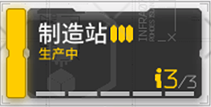
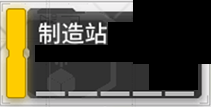
feat.完成基建设施的识别
Former-commit-id: 5fdbb6a49ae86581b2b10afc7bb355873625d05c

diff --git a/src/MeoAssistance/InfrastFacilityImageAnalyzer.cpp b/src/MeoAssistance/InfrastFacilityImageAnalyzer.cpp
@@ -1,0 +1,86 @@
+#include "InfrastFacilityImageAnalyzer.h"
+
+#include "Resource.h"
+#include "MultiMatchImageAnalyzer.h"
+#include "AsstUtils.hpp"
+
+bool asst::InfrastFacilityImageAnalyzer::analyze()
+{
+    const static std::unordered_map<std::string, std::string>
+        facility_task_name = {
+            { "Dorm", "InfrastDorm" },
+            { "ControlCenter", "InfrastControlCenter" },
+            { "Mfg", "InfrastMfg" },
+            { "Trade", "InfrastTrade" },
+            { "Power", "InfrastPower" },
+            { "Office", "InfrastOffice" },
+            { "Reception", "InfrastReception" }
+    };
+    // 因为基建的缩放是不确定的，有可能是正常大小，也可能是最小化的
+    // 所以对每种情况都进行一下识别，取其中得分最高的
+    const static std::vector<std::string> task_name_suffix = { "", "Mini" };
+
+    MultiMatchImageAnalyzer mm_analyzer(m_image);
+
+    auto task_analyze = [&](const std::string& task_name) -> bool {
+        const auto task_ptr = std::dynamic_pointer_cast<MatchTaskInfo>(
+            resource.task().task_ptr(task_name));
+        mm_analyzer.set_templ_name(task_ptr->templ_name);
+        mm_analyzer.set_threshold(task_ptr->templ_threshold);
+        mm_analyzer.set_mask_range(task_ptr->mask_range);
+
+        return mm_analyzer.analyze();
+    };
+
+    int cor_suffix_index = -1;
+
+    for (const auto& [key, task_name] : facility_task_name) {
+        std::vector<MatchRect> cur_facility_result;
+        // 已知基建缩放状态的时候，只识别这个缩放状态下的就行了
+        // 否则识别所有状态，直到找出正确的当前缩放状态
+        if (cor_suffix_index >= 0) {
+            if (!task_analyze(task_name + task_name_suffix.at(cor_suffix_index))) {
+                continue;
+            }
+            mm_analyzer.sort_result();
+            cur_facility_result = mm_analyzer.get_result();
+        }
+        else {
+            double max_score = 0;
+            for (size_t i = 0; i != task_name_suffix.size(); ++i) {
+                if (!task_analyze(task_name + task_name_suffix.at(i))) {
+                    continue;
+                }
+
+                const auto& cur_res = mm_analyzer.get_result();
+                auto cur_max_iter = std::max_element(cur_res.cbegin(), cur_res.cend(),
+                    [](const MatchRect& lhs, const MatchRect& rhs) -> bool {
+                        return lhs.score < rhs.score;
+                    });
+                if (cur_max_iter == cur_res.cend()) {
+                    continue;
+                }
+                if (double cur_score = cur_max_iter->score;
+                    max_score < cur_score) {
+                    mm_analyzer.sort_result();
+                    max_score = cur_score;
+                    cur_facility_result = cur_res;
+                    cor_suffix_index = i;
+                }
+            }
+        }
+#ifdef LOG_TRACE
+        cv::RNG rng(time(0));
+        cv::Scalar rand_color(rng.uniform(0, 255), rng.uniform(0, 255), rng.uniform(0, 255));
+        int index = 0;
+        for (const MatchRect& mr : cur_facility_result) {
+            cv::rectangle(m_image_draw, utils::make_rect<cv::Rect>(mr.rect), rand_color, 2);
+            cv::Point text_point(mr.rect.x + 2, mr.rect.y + mr.rect.height / 2);
+            cv::putText(m_image_draw, task_name + std::to_string(index++), text_point, 1, 1, cv::Scalar(0, 0, 255), 1);
+        }
+#endif
+        m_result.emplace(key, std::move(cur_facility_result));
+    }
+
+    return true;
+}

diff --git a/src/MeoAssistance/InfrastFacilityImageAnalyzer.h b/src/MeoAssistance/InfrastFacilityImageAnalyzer.h
@@ -1,0 +1,26 @@
+#pragma once
+#include "AbstractImageAnalyzer.h"
+
+namespace asst {
+    class InfrastFacilityImageAnalyzer final : public AbstractImageAnalyzer
+    {
+    public:
+        using AbstractImageAnalyzer::AbstractImageAnalyzer;
+        virtual ~InfrastFacilityImageAnalyzer() = default;
+        InfrastFacilityImageAnalyzer(const cv::Mat& image, const Rect& roi) = delete;
+
+        virtual bool analyze() override;
+
+    private:
+        // 该分析器不支持外部设置ROI
+        virtual void set_roi(const Rect& roi) noexcept override {
+            AbstractImageAnalyzer::set_roi(roi);
+        }
+        virtual void set_image(const cv::Mat& image, const Rect& roi) {
+            AbstractImageAnalyzer::set_image(image, roi);
+        }
+
+        // key：设施名，value：所有这种设施的当前Rect（例如所有制造站的位置）
+        std::unordered_map<std::string, std::vector<MatchRect>> m_result;
+    };
+}

diff --git a/src/MeoAssistance/Assistance.cpp b/src/MeoAssistance/Assistance.cpp
@@ -17,6 +17,7 @@
 #include "CreditShoppingTask.h"
 #include "InfrastShiftTask.h"
 #include "InfrastDormTask.h"
+#include "InfrastEnterFacilityTask.h"
 
 using namespace asst;
 
@@ -242,7 +243,7 @@ bool Assistance::start_debug_task()
     //}
     {
         constexpr static const char* DebugTaskChain = "Debug";
-        auto shift_task_ptr = std::make_shared<InfrastDormTask>(task_callback, (void*)this);
+        auto shift_task_ptr = std::make_shared<InfrastEnterFacilityTask>(task_callback, (void*)this);
         //shift_task_ptr->set_facility("Mfg");
         //shift_task_ptr->set_product("CombatRecord");
         shift_task_ptr->set_task_chain(DebugTaskChain);

diff --git a/src/MeoAssistance/InfrastEnterFacilityTask.h b/src/MeoAssistance/InfrastEnterFacilityTask.h
@@ -1,0 +1,18 @@
+#pragma once
+#include "AbstractTask.h"
+
+namespace asst {
+    class InfrastEnterFacilityTask : public AbstractTask
+    {
+    public:
+        using AbstractTask::AbstractTask;
+        virtual ~InfrastEnterFacilityTask() = default;
+        virtual bool run() override;
+
+        void set_enter_order(std::vector<std::string> enter_order) noexcept {
+            m_enter_order = std::move(enter_order);
+        }
+    private:
+        std::vector<std::string> m_enter_order;
+    };
+}

diff --git a/src/MeoAssistance/InfrastEnterFacilityTask.cpp b/src/MeoAssistance/InfrastEnterFacilityTask.cpp
@@ -1,0 +1,15 @@
+#include "InfrastEnterFacilityTask.h"
+
+#include "InfrastFacilityImageAnalyzer.h"
+#include "Resource.h"
+#include "Controller.h"
+
+bool asst::InfrastEnterFacilityTask::run()
+{
+    const auto& image = ctrler.get_image();
+
+    InfrastFacilityImageAnalyzer analyzer(image);
+    analyzer.analyze();
+
+    return false;
+}

diff --git a/src/MeoAssistance/MultiMatchImageAnalyzer.h b/src/MeoAssistance/MultiMatchImageAnalyzer.h
@@ -11,7 +11,7 @@ namespace asst {
 
         virtual bool analyze() override;
 
-        void sort_result();
+        void sort_result(); // 按位置排序，左上角的排在前面
         void set_mask_range(int lower, int upper) {
             m_mask_range = std::make_pair(lower, upper);
         }

diff --git a/src/MeoAssistance/AbstractImageAnalyzer.cpp b/src/MeoAssistance/AbstractImageAnalyzer.cpp
@@ -4,6 +4,7 @@
 
 asst::AbstractImageAnalyzer::AbstractImageAnalyzer(const cv::Mat& image)
     : m_image(image)
+    , m_roi(empty_rect_to_full(Rect(), image))
 #ifdef LOG_TRACE
     ,
     m_image_draw(image.clone())
